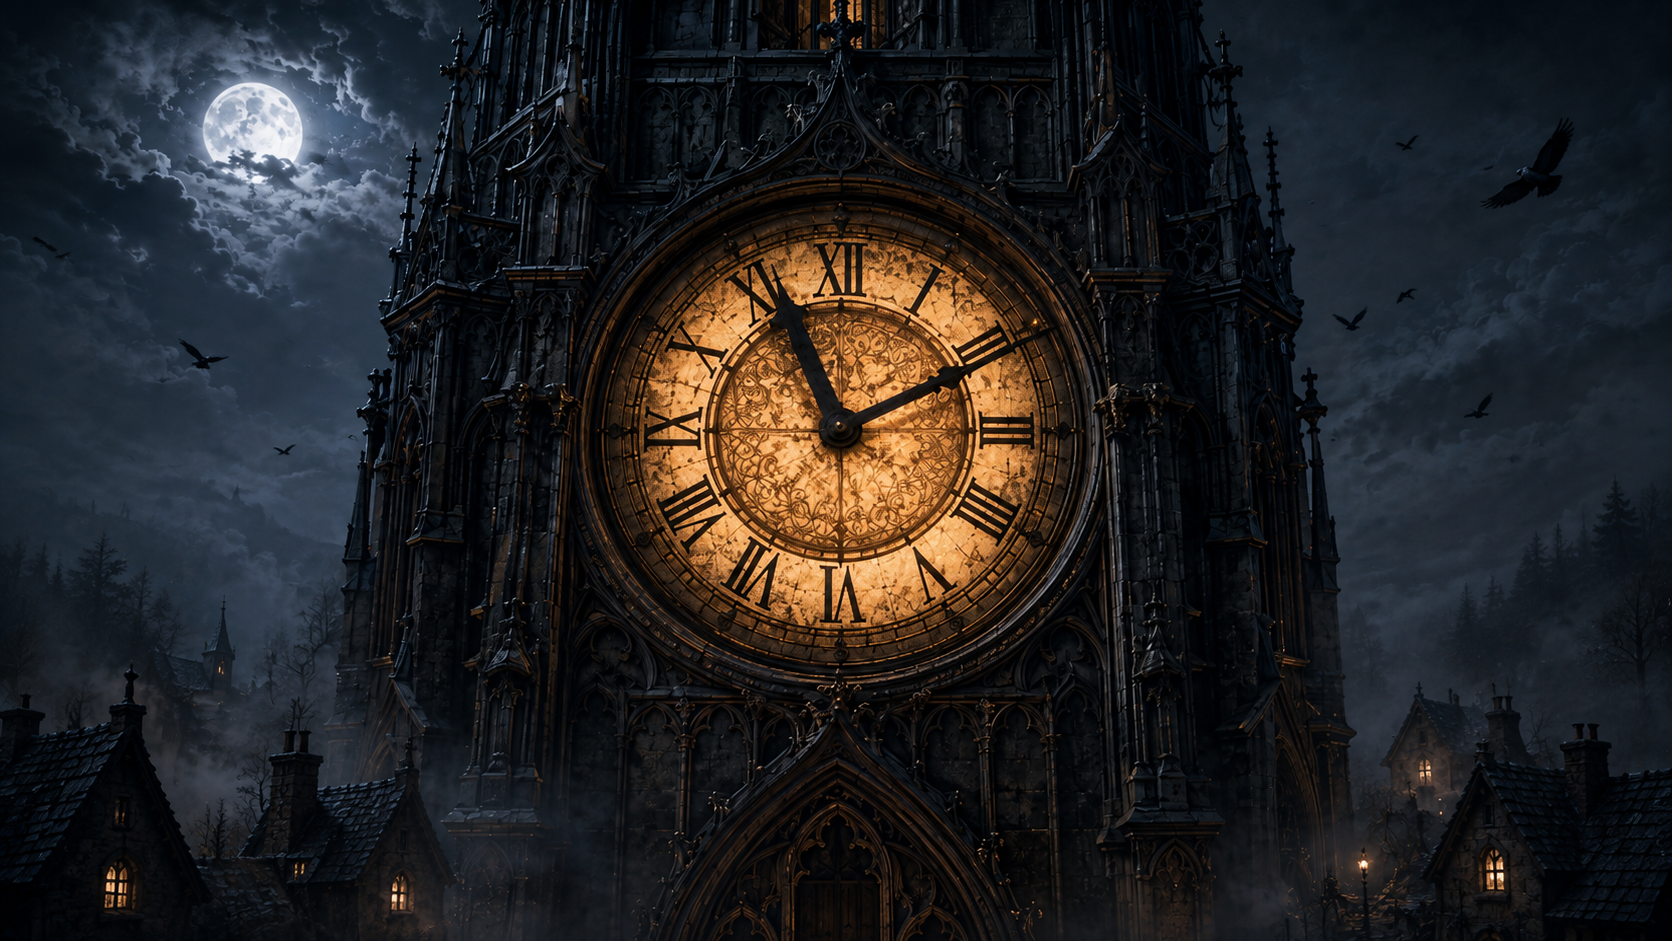
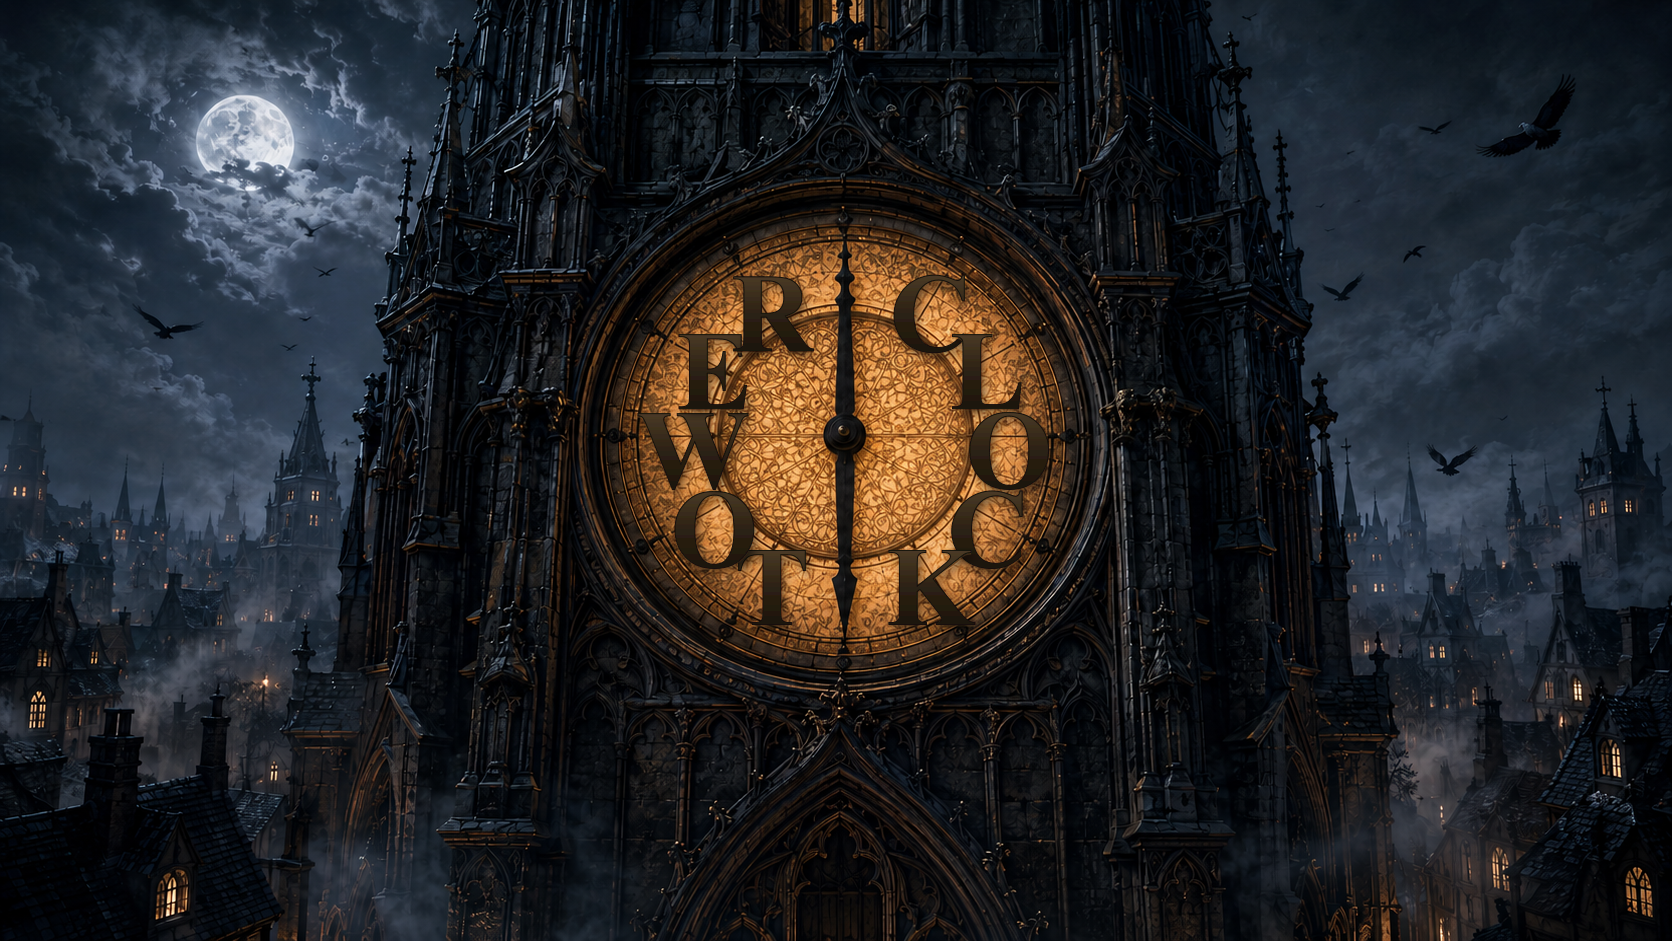
CLOCKTOWER on the dial; spectators watch the square; Leave asks in-app (FT-852)
The default background wears the word around the clock face now —
iron serif letters at the hour marks, measured onto the clean art.
Joining players land straight in the live square and watch seats
appear (the waiting screen retires). Leave was dead in embedded
panes: the native confirm dialog auto-dismisses there — replaced
with a two-click arm on the pill itself.

diff --git a/src/App.vue b/src/App.vue
@@ -25,12 +25,13 @@
     <transition name="blur">
       <!-- Golem fork: while the host is BUILDING (hosting, roles undealt) the
            town centre is the tools panel — from zero seats up. TownInfo
-           returns once the game starts; Intro only when nothing is happening
-           at all. -->
+           returns once the game starts; Intro ONLY when sessionless (FT-852:
+           a player in a session always sees the live town square — seats
+           appear as the host adds them; no waiting screen). -->
       <HostTools
         v-if="showHostTools && !session.nomination"
       ></HostTools>
-      <Intro v-else-if="!players.length"></Intro>
+      <Intro v-else-if="!session.sessionId && !players.length"></Intro>
       <TownInfo
         v-else-if="!session.nomination"
       ></TownInfo>
@@ -101,8 +102,18 @@
       >
         <font-awesome-icon :icon="pillCopied ? 'check' : 'copy'" />
       </span>
-      <span class="leave" @click="$refs.menu.leaveSession()" title="Leave this session">
-        <font-awesome-icon icon="times-circle" /> Leave
+      <!-- FT-852: two-click arm instead of a native confirm() — browser
+           dialogs are silently auto-dismissed in dialog-less contexts
+           (driven browser panes, embeds), which made this control read as
+           dead. First click arms for 3s, second click leaves. -->
+      <span
+        class="leave"
+        :class="{ armed: leaveArmed }"
+        @click="pillLeave"
+        :title="leaveArmed ? 'Click again to confirm' : 'Leave this session'"
+      >
+        <font-awesome-icon icon="times-circle" />
+        {{ leaveArmed ? "Sure?" : "Leave" }}
       </span>
     </div>
     <!-- FT-850: game recording + town records (see the components). -->
@@ -183,6 +194,8 @@ export default {
       this.dealAt = dealTimeFor(sessionId);
       this.endGameOpen = false;
       this.statsOpen = false;
+      clearTimeout(this.leaveTimer);
+      this.leaveArmed = false;
     }
   },
   mounted() {
@@ -227,10 +240,27 @@ export default {
       // the session by the time the root component's data runs).
       endGameOpen: false,
       statsOpen: false,
-      dealAt: dealTimeFor(this.$store.state.session.sessionId)
+      dealAt: dealTimeFor(this.$store.state.session.sessionId),
+      // FT-852: the pill Leave's two-click arm.
+      leaveArmed: false,
+      leaveTimer: null
     };
   },
   methods: {
+    // FT-852: arm on the first click, leave on the second — no native
+    // confirm() anywhere in the pill (see the template note).
+    pillLeave() {
+      if (!this.leaveArmed) {
+        this.leaveArmed = true;
+        this.leaveTimer = setTimeout(() => {
+          this.leaveArmed = false;
+        }, 3000);
+        return;
+      }
+      clearTimeout(this.leaveTimer);
+      this.leaveArmed = false;
+      this.$refs.menu.leaveSession(true);
+    },
     copyPillLink() {
       this.$refs.menu.copySessionUrl();
       this.pillCopied = true;
@@ -417,6 +447,10 @@ ul {
     &:hover {
       color: red;
     }
+  }
+  // FT-852: the armed Leave reads as the question it is.
+  .leave.armed {
+    color: red;
   }
 }
 

diff --git a/src/components/Intro.vue b/src/components/Intro.vue
@@ -5,7 +5,9 @@
            button drives the SAME path as its hotkey (a synthetic keyup), so
            there is exactly one host/join/create flow to maintain. -->
       <!-- In a session with no seats yet, the next step is SEATS, not doors:
-           the host adds them; a player waits for the storyteller. -->
+           the host adds them. (FT-852: the player waiting screen is retired —
+           App only renders Intro when sessionless; a player in a session
+           always sees the live town square.) -->
       <template v-if="session.sessionId && !session.isSpectator">
         <p class="hint">Hosting <b>{{ session.sessionId }}</b> — add seats to build the town.</p>
         <ul class="doors">
@@ -16,10 +18,6 @@
           </li>
         </ul>
       </template>
-      <p class="hint" v-else-if="session.sessionId && session.isSpectator">
-        Joined <b>{{ session.sessionId }}</b> — waiting for the storyteller to
-        add seats…
-      </p>
       <template v-else>
         <ul class="doors" v-if="!mode">
           <li @click="openHost">

diff --git a/src/components/Menu.vue b/src/components/Menu.vue
@@ -215,8 +215,15 @@ export default {
         this.$store.commit("session/setSessionId", sessionId);
       }
     },
-    leaveSession() {
-      if (confirm("Are you sure you want to leave the active live game?")) {
+    // FT-852: `confirmed === true` (the pill's own two-click arm) skips the
+    // native confirm() — browser dialogs are silently auto-dismissed in
+    // dialog-less contexts (driven browser panes, embeds), which returned
+    // false and deadened the caller.
+    leaveSession(confirmed) {
+      if (
+        confirmed === true ||
+        confirm("Are you sure you want to leave the active live game?")
+      ) {
         this.$store.commit("session/setSpectator", false);
         this.$store.commit("session/setSessionId", "");
       }
